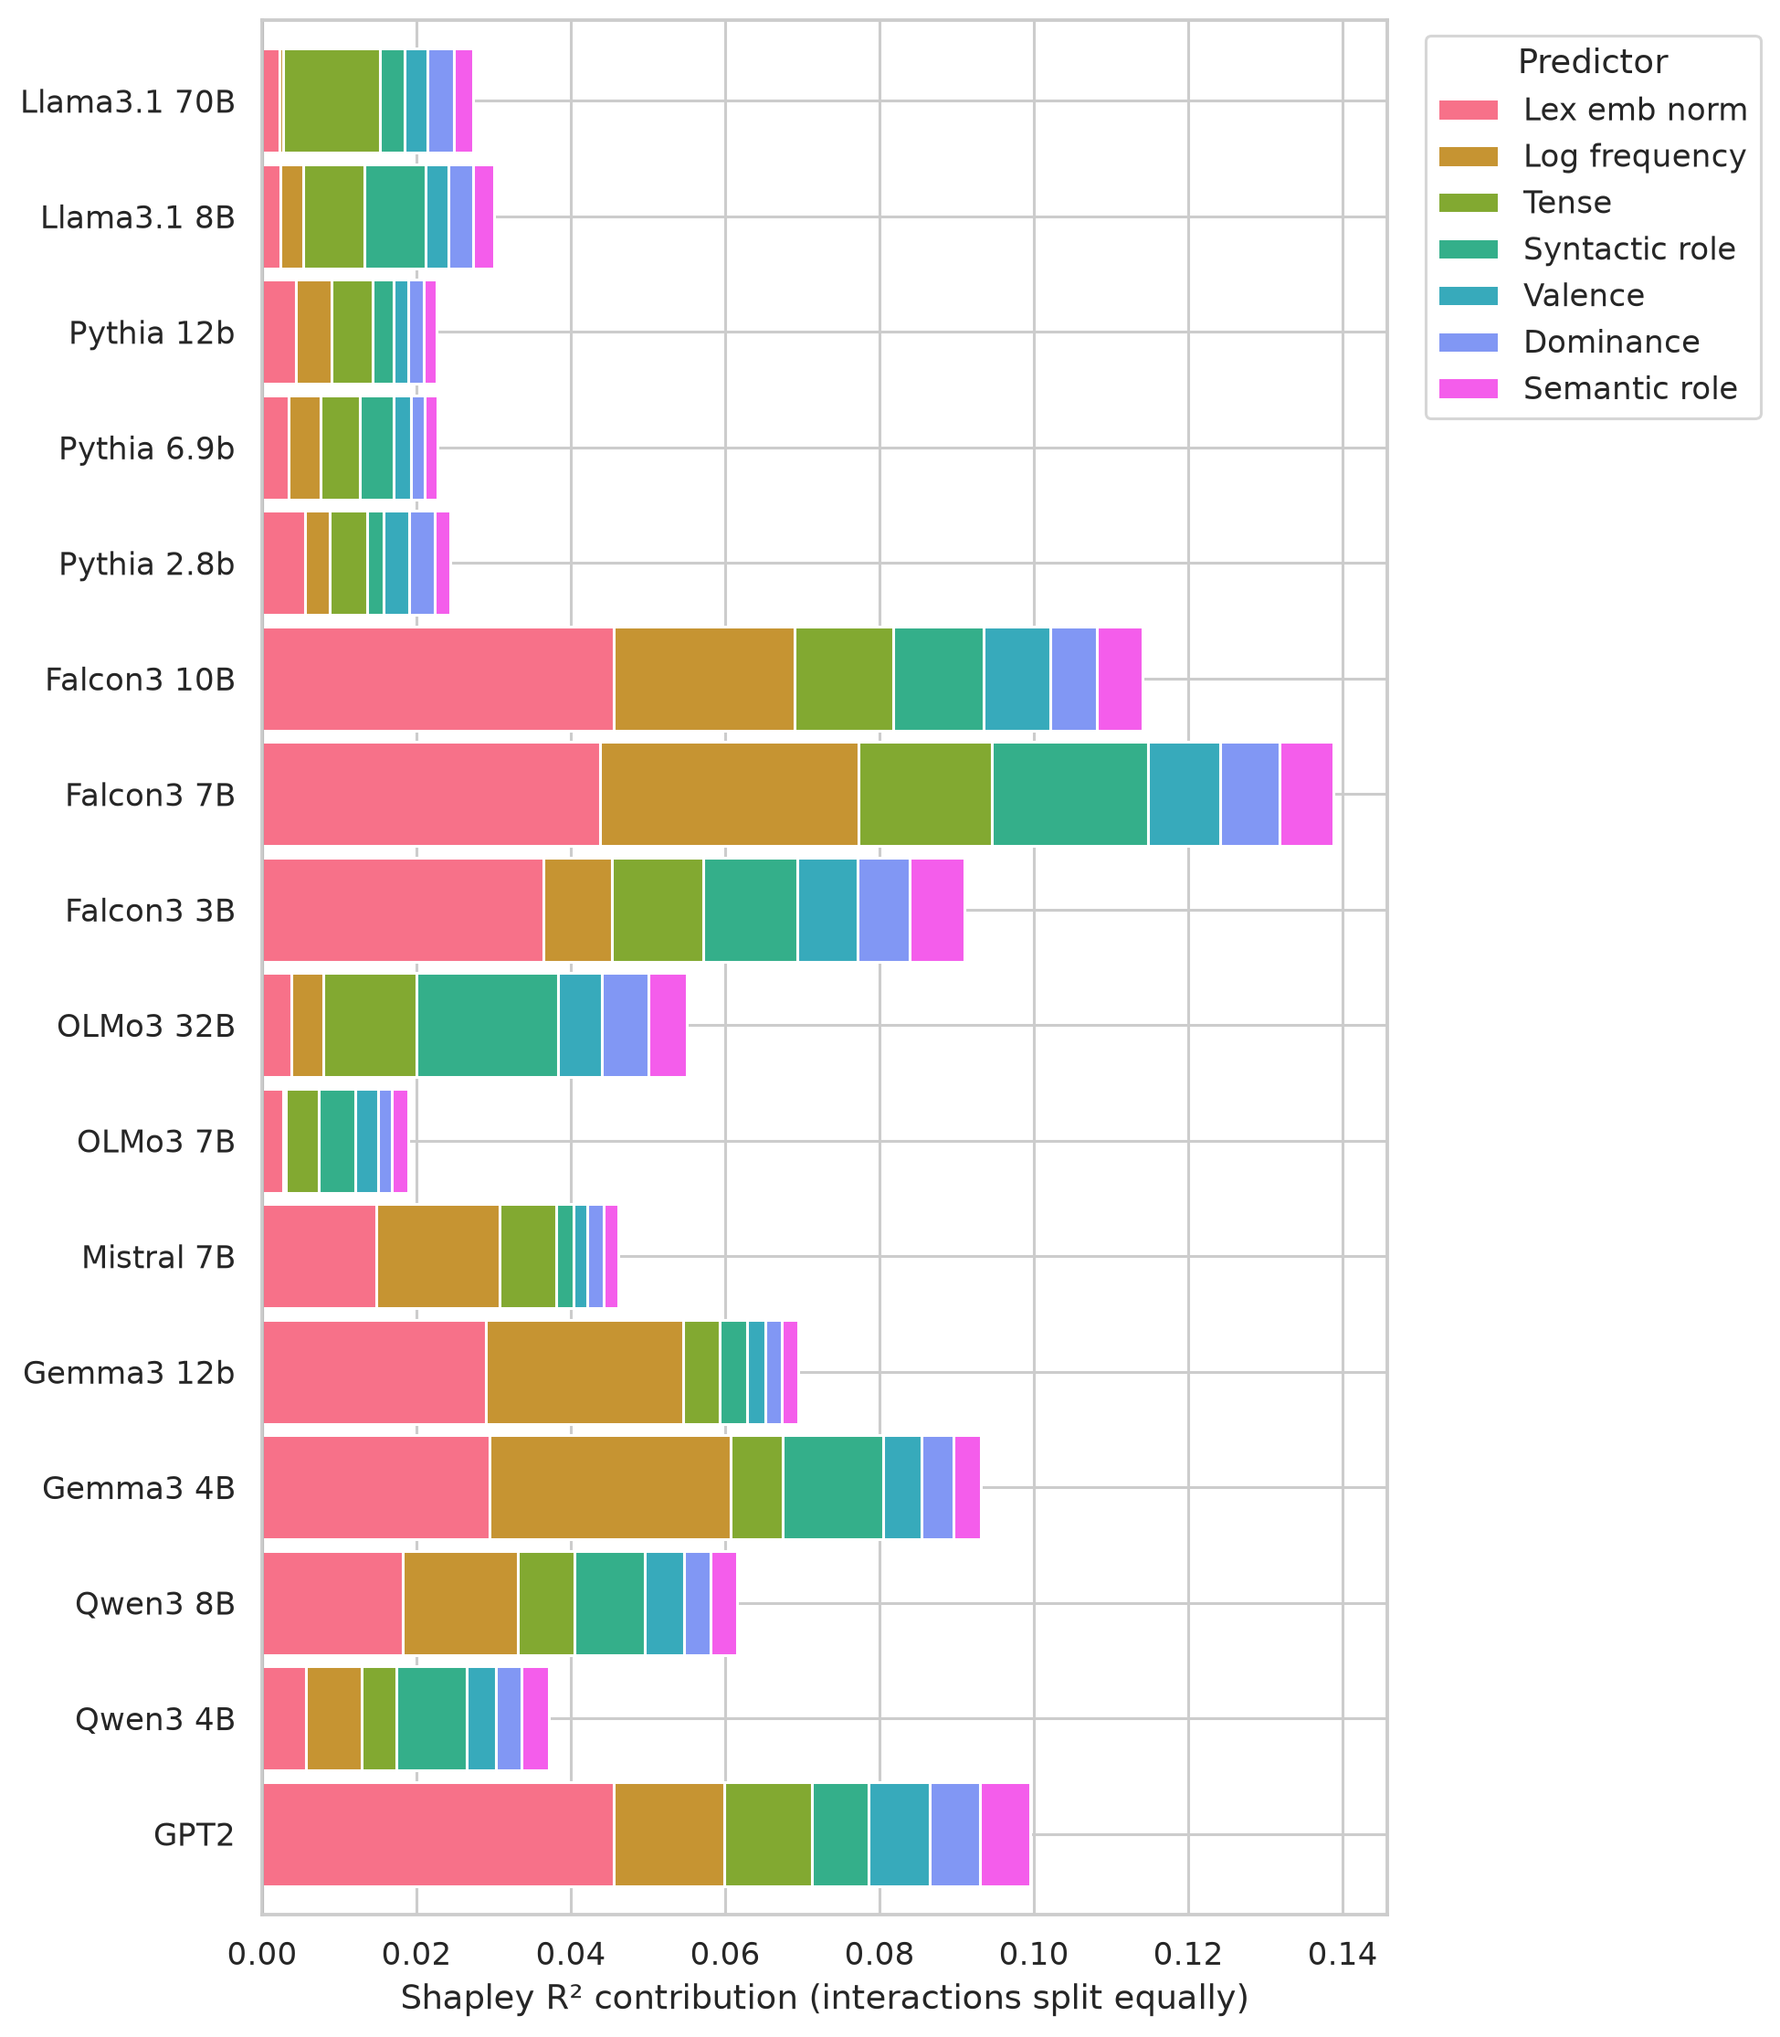
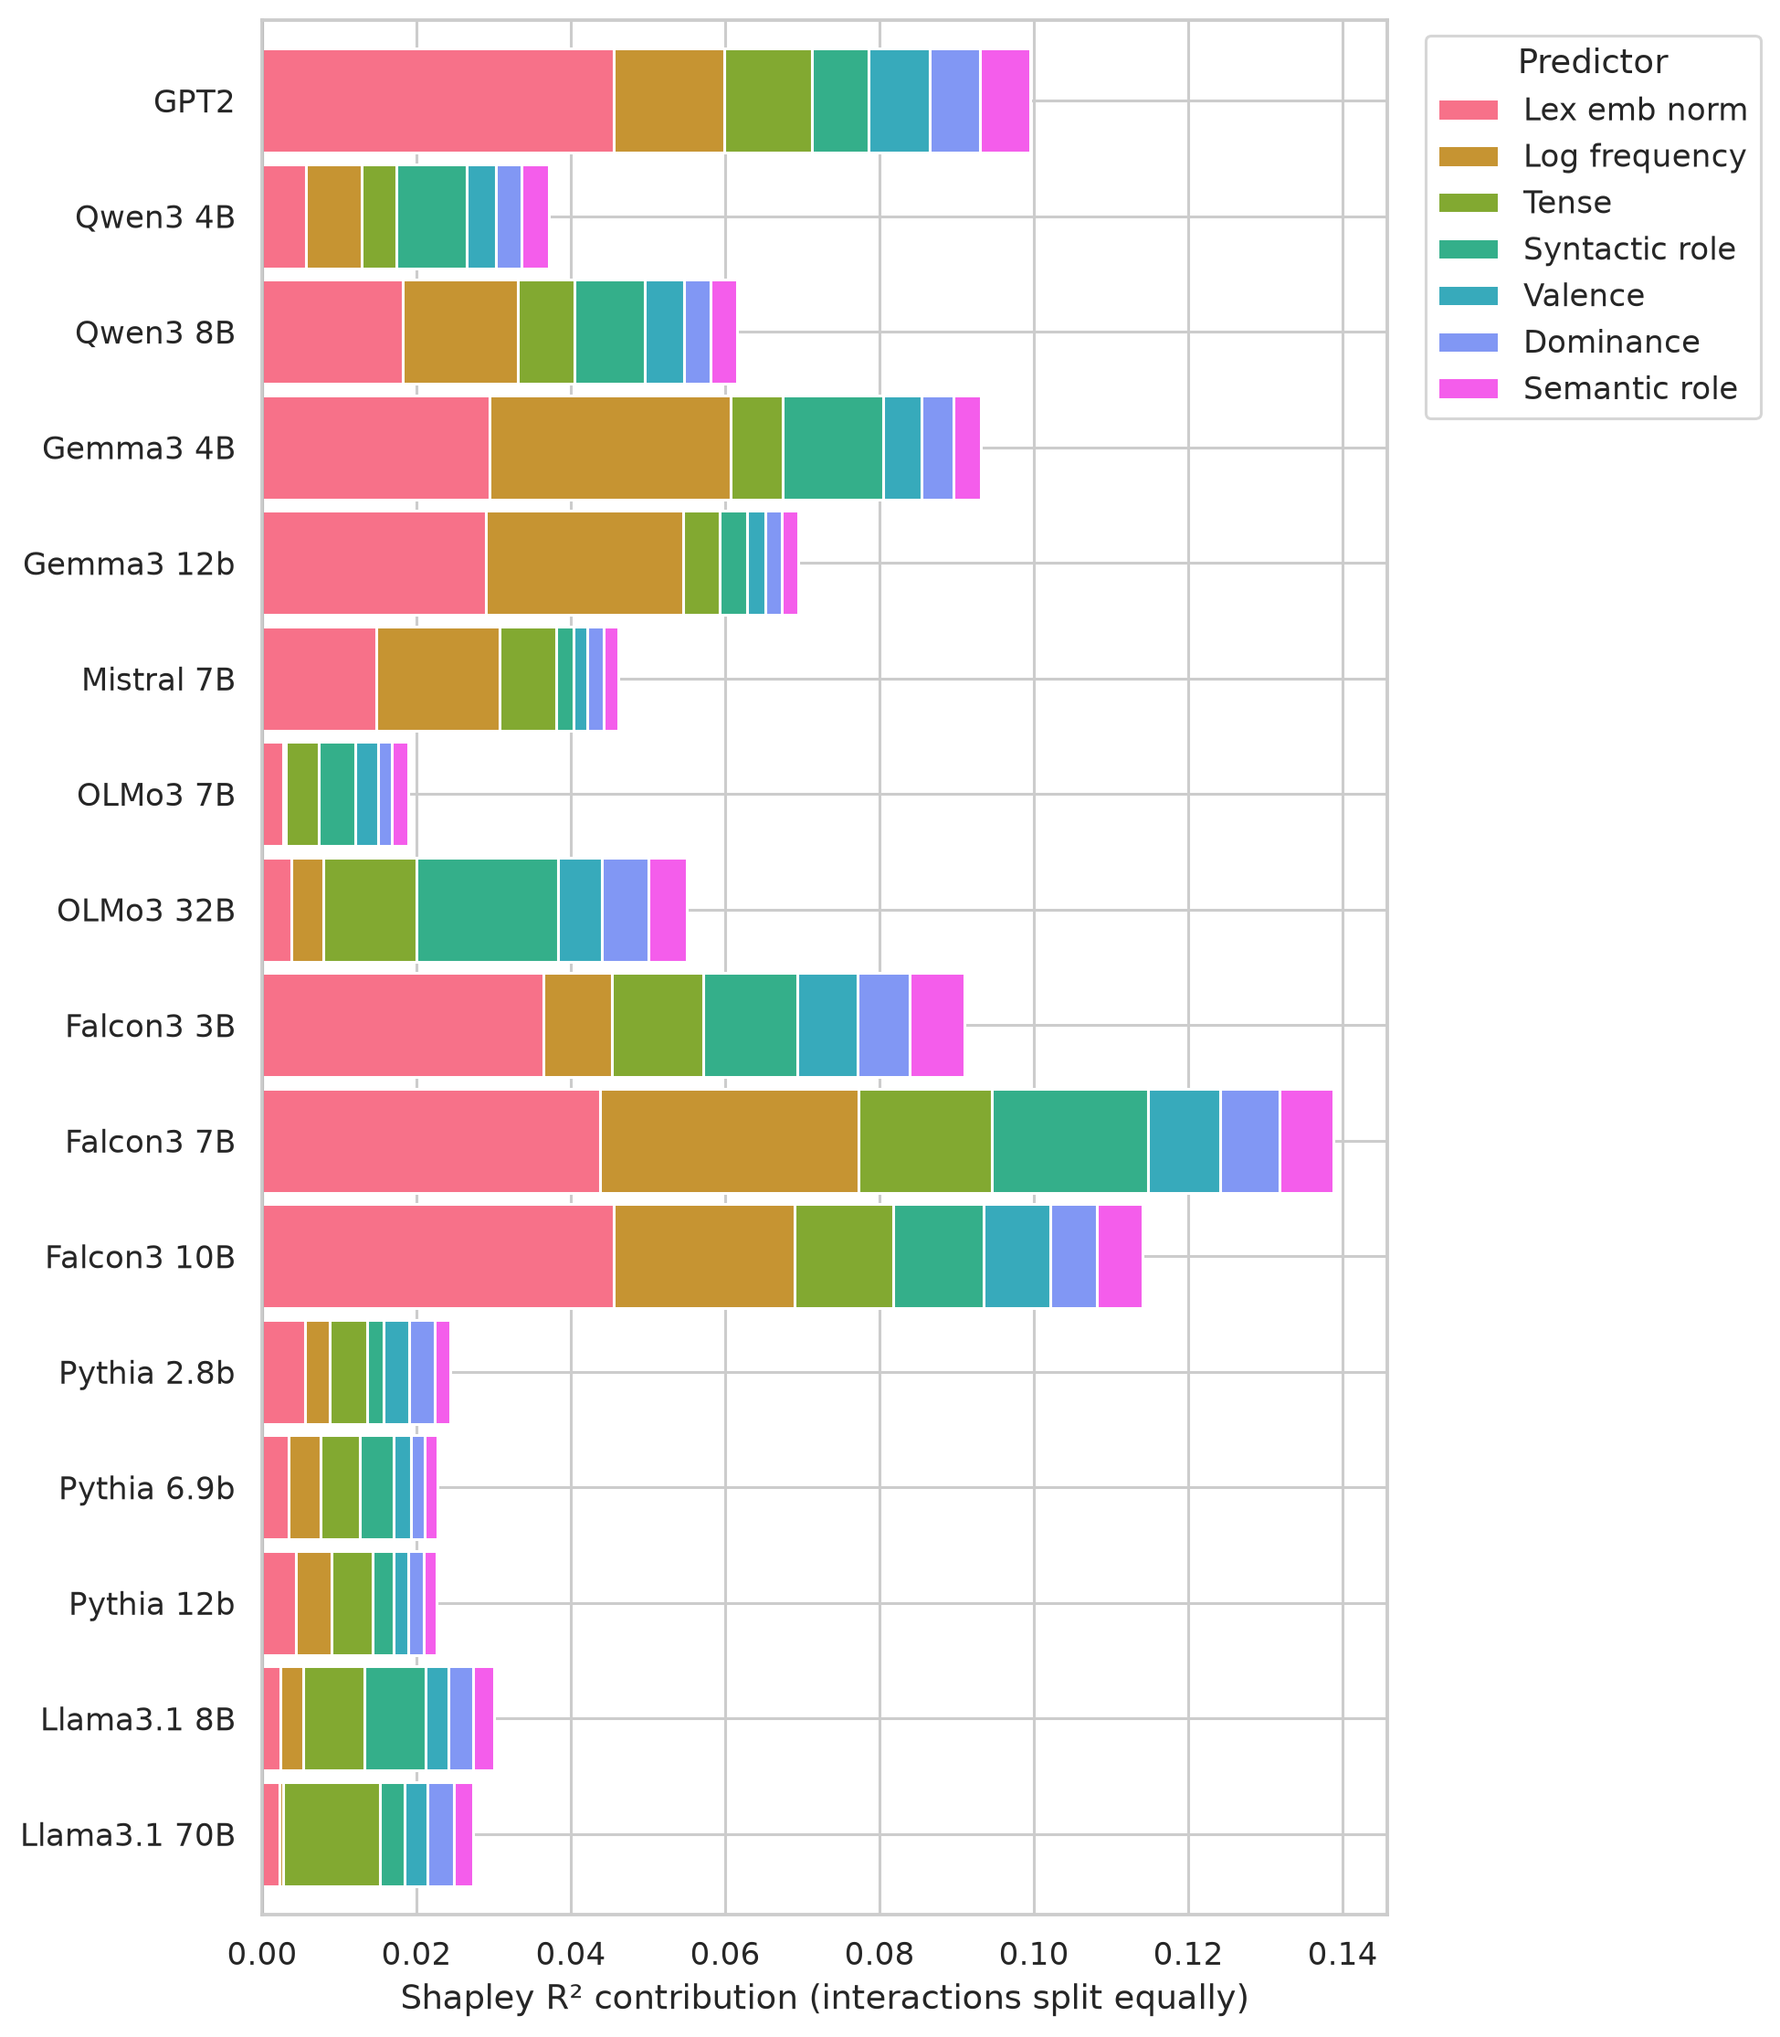
Update report

diff --git a/run_model_selection_random_slopes_report.py b/run_model_selection_random_slopes_report.py
@@ -1456,14 +1456,14 @@ def build_report(artifacts: dict[str, pd.DataFrame], report_dir: Path) -> Path:
             values="folded_shapley_r2",
             aggfunc="sum",
             fill_value=0.0,
-        ).reindex(plot_model_order, fill_value=0.0)
+        ).reindex(plot_model_order_reversed, fill_value=0.0)
         predictor_order = shapley_plot.sum(axis=0).sort_values(ascending=False).index
         shapley_plot = shapley_plot.reindex(columns=predictor_order)
         shapley_colors = sns.color_palette("husl", n_colors=len(predictor_order))
         ax = shapley_plot.plot(
             kind="barh",
             stacked=True,
-            figsize=(9, max(4.5, len(plot_model_order) * 0.55 + 1.5)),
+            figsize=(9, max(4.5, len(plot_model_order_reversed) * 0.55 + 1.5)),
             color=shapley_colors,
             width=0.9,
         )
